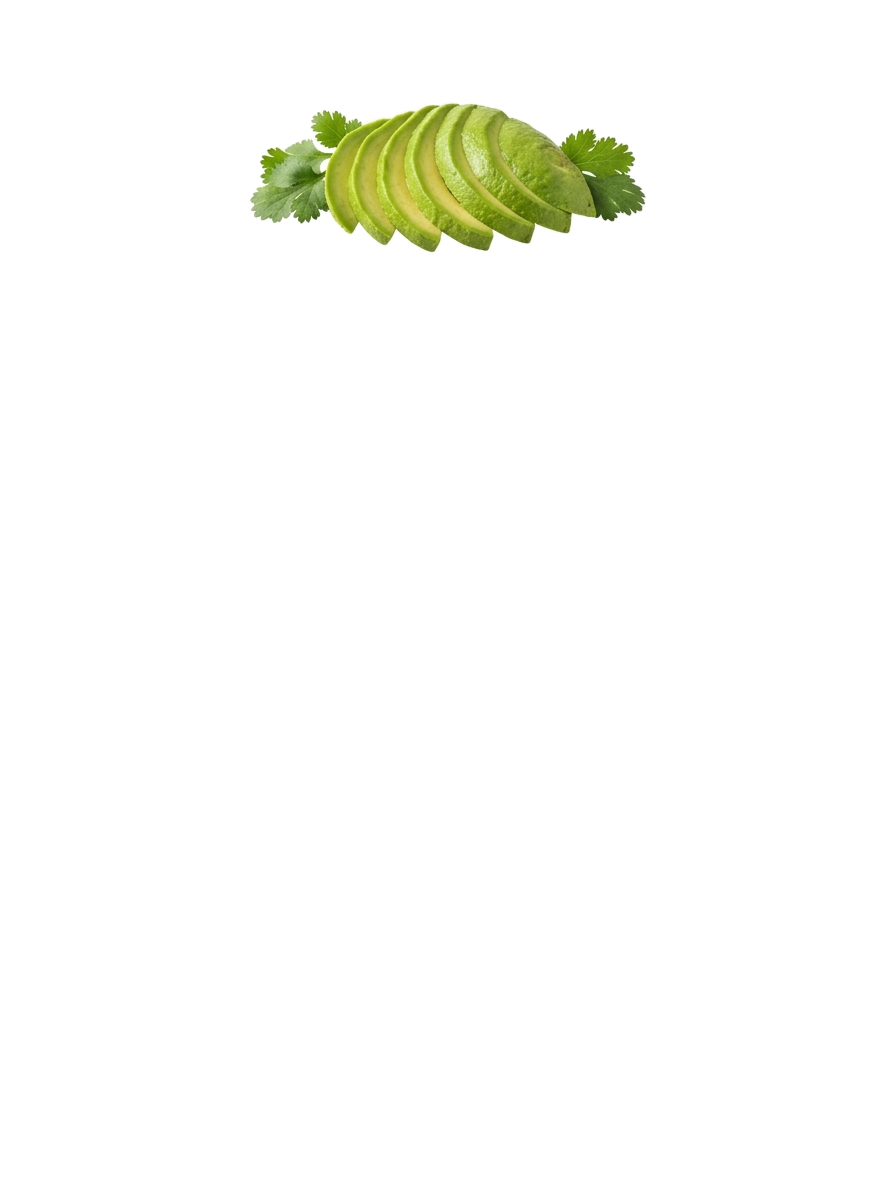
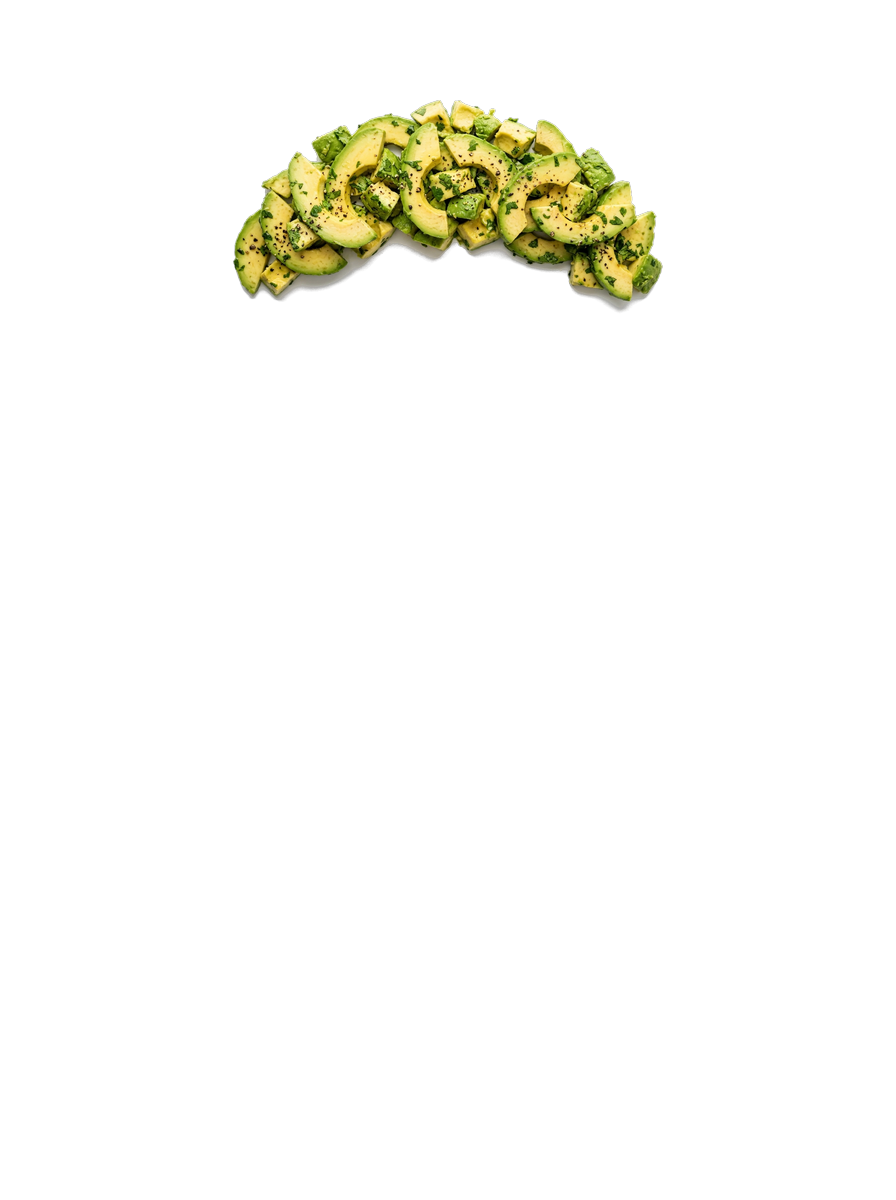
Deploy natural organic salad avocado layer and updated bowl integration

Changed region(s): [[0.25, 0.0617, 0.75, 0.2775]]

diff --git a/index.html b/index.html
@@ -1224,8 +1224,8 @@
             <!-- Layer 5: Diced Roma Tomatoes, Red Onions, Fresh Cilantro -->
             <img src="assets/images/salad-layer-top.png" alt="Hand-diced Roma tomatoes and fresh cilantro" class="salad-layer-img layer-top" id="layerTop" width="896" height="1200">
 
-            <!-- Layer 6: Fresh Hass Avocado Slices (Top Crown) -->
-            <img src="assets/images/salad-layer-avocado.png" alt="Creamy Hass avocado slices" class="salad-layer-img layer-avocado" id="layerAvocado" width="896" height="1200">
+            <!-- Layer 6: Fresh Hass Avocado Slices & Rustic Chunks (Top Crown) -->
+            <img src="assets/images/salad-layer-avocado.png?v=20261102-naturalorganic" alt="Fresh diced Hass avocado chunks and crescent slices" class="salad-layer-img layer-avocado" id="layerAvocado" width="896" height="1200">
 
             <!-- Layer 7: Ceramic Bowl Front Lip (Anchors Food Deep Inside Bowl Cavity) -->
             <img src="assets/images/salad-layer-bowl-front.png" alt="Handcrafted ceramic salad bowl front rim" class="salad-layer-img layer-bowl-front" id="layerBowlFront" width="896" height="1200">
